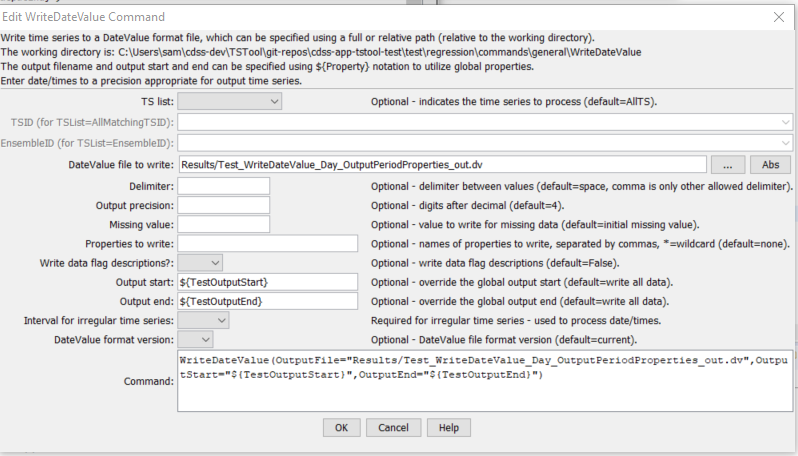
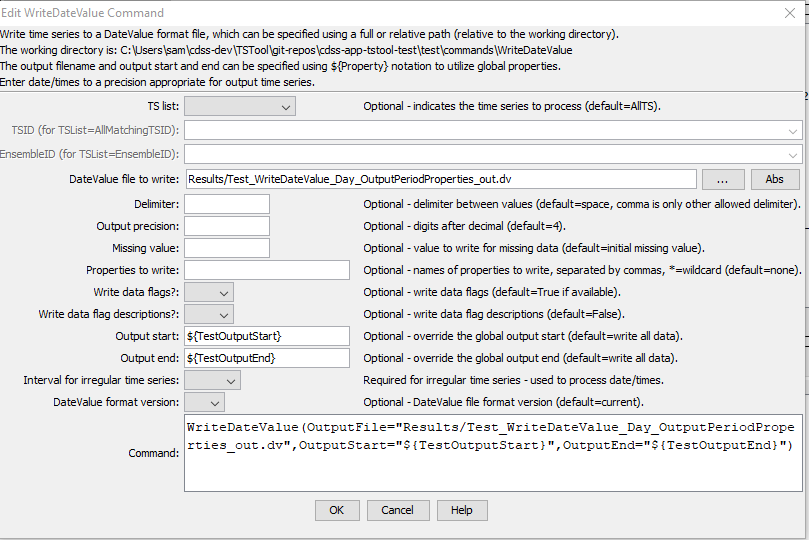
Update documentation for indicators enhancements, issue #96

Changed region(s): [[0.0, 0.0, 1.0, 1.0]]

diff --git a/mkdocs-project/docs/command-ref/TableMath/TableMath.md b/mkdocs-project/docs/command-ref/TableMath/TableMath.md
@@ -3,6 +3,7 @@
 * [Overview](#overview)
 * [Command Editor](#command-editor)
 * [Command Syntax](#command-syntax)
+    + [Supported Operators and Input](#supported-operators-and-input)
 * [Examples](#examples)
 * [Troubleshooting](#troubleshooting)
 * [See Also](#see-also)
@@ -66,6 +67,10 @@ Command Parameters
 |`Output`<br>**required**|Output column name.  If the column is not found it will be added to the table using the same data type as the input column and will contain the results of processing, can be specified with `${Property}`.  The output column name can be the same as input to overwrite input. |None – must be specified.|
 |`NonValue`|The value to use in cases where an output result could not be computed (missing input, division by zero).  Null will result in blanks in output whereas NaN may be shown in some output products, depending on the specifications for the format.|Null|
 
+### Supported Operators and Input ###
+
+The following operators can be specified for the `Operator` parameter.
+
 **<p style="text-align: center;">
 Supported Operators and Input
 </p>**
@@ -79,6 +84,8 @@ Supported Operators and Input
 | `/` | Table column name. | Table column name or a constant value. | Divide the first input value by the second and set in the output column. |
 | `Cumulate` | Table column name. | | Cumulate the input values into the output column. The initial value (prior to the first row) is zero and therefore the first cumulative value will be the first row's input value.  Missing values in the input will result in no cumulative value being computed and the cumulation will begin at the next non-missing value. If necessary, use other commands such as `TableMath` `=` operator to assign a different initial value. |
 | `Delta` | Table column name. | | Compute a difference (delta) by subtracting the input column's previous row value from the current row value. The initial value is is zero and therefore the first cumulative value will be the first row's input value.  Missing values in the input will result in no delta value being computed. If necessary, use other commands such as `TableMath` `=` operator to assign a different initial value. |
+| `Max` | Table column name. | Table column name or a constant value. | Set the output to the maximum of the input values.  Missing values in the input will result in no output value being computed. |
+| `Min` | Table column name. | Table column name or a constant value. | Set the output to the minimum of the input values.  Missing values in the input will result in no output value being computed. |
 | `ToInteger` | Table column name. | | Convert the input to an integer and set in the output column. |
 
 ## Examples ##

diff --git a/mkdocs-project/docs/command-ref/WebGet/WebGet.md b/mkdocs-project/docs/command-ref/WebGet/WebGet.md
@@ -56,7 +56,7 @@ Command Parameters
 
 |**Parameter**&nbsp;&nbsp;&nbsp;&nbsp;&nbsp;&nbsp;&nbsp;&nbsp;&nbsp;&nbsp;&nbsp;&nbsp;&nbsp;&nbsp;&nbsp;&nbsp;&nbsp;&nbsp;&nbsp;&nbsp;&nbsp;&nbsp;&nbsp;&nbsp;&nbsp;&nbsp;&nbsp;&nbsp;&nbsp;&nbsp;&nbsp;&nbsp;&nbsp;&nbsp;&nbsp; | **Description** | **Default**&nbsp;&nbsp;&nbsp;&nbsp;&nbsp;&nbsp;&nbsp;&nbsp;&nbsp;&nbsp;&nbsp;&nbsp;&nbsp;&nbsp;&nbsp;&nbsp; |
 | --------------|-----------------|----------------- |
-| `URI`<br>**required**| The Uniform Resource Identifier (URI) for the content to be retrieved.  This is often also referred to as the Uniform Resource Locator (URL).  Global properties can be used with the `${Property}` syntax.| None - must be specified.|
+| `URI`<br>**required**| The Uniform Resource Identifier (URI) for the content to be retrieved.  This is often also referred to as the Uniform Resource Locator (URL).  Global properties can be used with the `${Property}` syntax. The URI can include query parameters with special characters such as equal sign because URLs can be encoded (see the `EncodeURI` parameter). | None - must be specified.|
 | `EncodeURI` | Indicate whether to encode the URL to protect special characters: `False` or `True`.  See [Percent-encoding on Wikipedia](https://en.wikipedia.org/wiki/Percent-encoding). Encoded URLs are difficult to read and therefore human-readable URL can be entered as the `URI`, such as using spaces.  However, the requested resource may require encoding to be recognized by a called service.  If the provided `URI` is already encoded, then specify `False`. Only the value  part of `?property=value` and `&property=value` query is encoded. | `True` |
 | `HttpHeaders` | List of HTTP header properties to be attached to the request.  This is useful if a website requires authentication via a key property, and for testing. The format is `PropertyName1:PropertyValue1,PropertyName2:PropertyValue2,...`| No headers. |
 | `ConnectTimeout` | The connection timeout in milliseconds.  If a connection has not occurred in this time, an error will result. | `60000` (60 seconds) |

diff --git a/mkdocs-project/docs/appendix-release-notes/release-notes-14.md b/mkdocs-project/docs/appendix-release-notes/release-notes-14.md
@@ -33,8 +33,21 @@ Additional resources are needed to update the software to use 64-bit libraries f
       when a requirement is not met.
     + Fixed bug where `@require` was not being properly handled when checking the HydroBase version,
       when run in a test suite.
+* ![bug](bug.png) [14.3.0] Fix the
+  [`ProcessTSProduct`](../command-ref/ProcessTSProduct/ProcessTSProduct.md) command to parse time series product file colors
+  that use format `#ffffff`.
+* ![bug](bug.png) [14.3.0] Fix the
+  [`ReadTableFromDelimitedFile`](../command-ref/ReadTableFromDelimitedFile/ReadTableFromDelimitedFile.md) command to determine
+  floating point number column precision even if the values are quoted.
+  The `DoubleColumns` command parameter allow such values to be read as numbers, and precision is used for displays after reading.
+* ![bug](bug.png) [14.3.0] Fix the
+  [`WebGet`](../command-ref/WebGet/WebGet.md) command handle URL with query values that have equal sign in the parameter value.
 * ![change](change.png) [14.3.0] Update the
-  [`RunCommands`](../command-ref/RunCommands/RunCommands.md) command to check handle `@enabledif` annotations.
+  [`RunCommands`](../command-ref/RunCommands/RunCommands.md) command to handle `@enabledif` annotations.
+* ![change](change.png) [14.3.0] Update the
+  [`TableMath`](../command-ref/TableMath/TableMath.md) command to have `Max` and `Min` operators.
+* ![change](change.png) [14.3.0] Update the
+  [`WriteDateValue`](../command-ref/WriteDateValue/WriteDateValue.md) command to have the `WriteDataFlags` parameter.
 
 ## Changes in Version 14.2.2 ##
 

diff --git a/mkdocs-project/docs/command-ref/WriteDateValue/WriteDateValue.md b/mkdocs-project/docs/command-ref/WriteDateValue/WriteDateValue.md
@@ -50,6 +50,7 @@ Command Parameters
 |`Precision`|The number of digits after the decimal for numerical output.|`4` or if set for time series (in the future may default based on units). |
 |`MissingValue`|The value to write to the file to indicate a missing value in the time series.	As initialized when reading the time series or creating a new time series, typically `-999`, `NaN`, etc.|
 |`IncludeProperties`|A list of time series property names to write, separated by commas, as of `Version=1.6`.  Use `*` as a wildcard to match multiple properties.|None.|
+|`WriteDataFlags`|Indicate whether data flags should be written: `True` or `False`.| `True` if times series have data flags, `False` if not. |
 |`WriteDataFlagDescriptions`|Indicate whether data flag descriptions should be written using `True` or `False`, as of `Version=1.6`.|`False`|
 |`OutputStart`|The date/time for the start of the output as a date/time string or `${Property}`.|Use the global output period.|
 |`OutputEnd`|The date/time for the end of the output as a date/time string or `${Property}`.|Use the global output period.|
